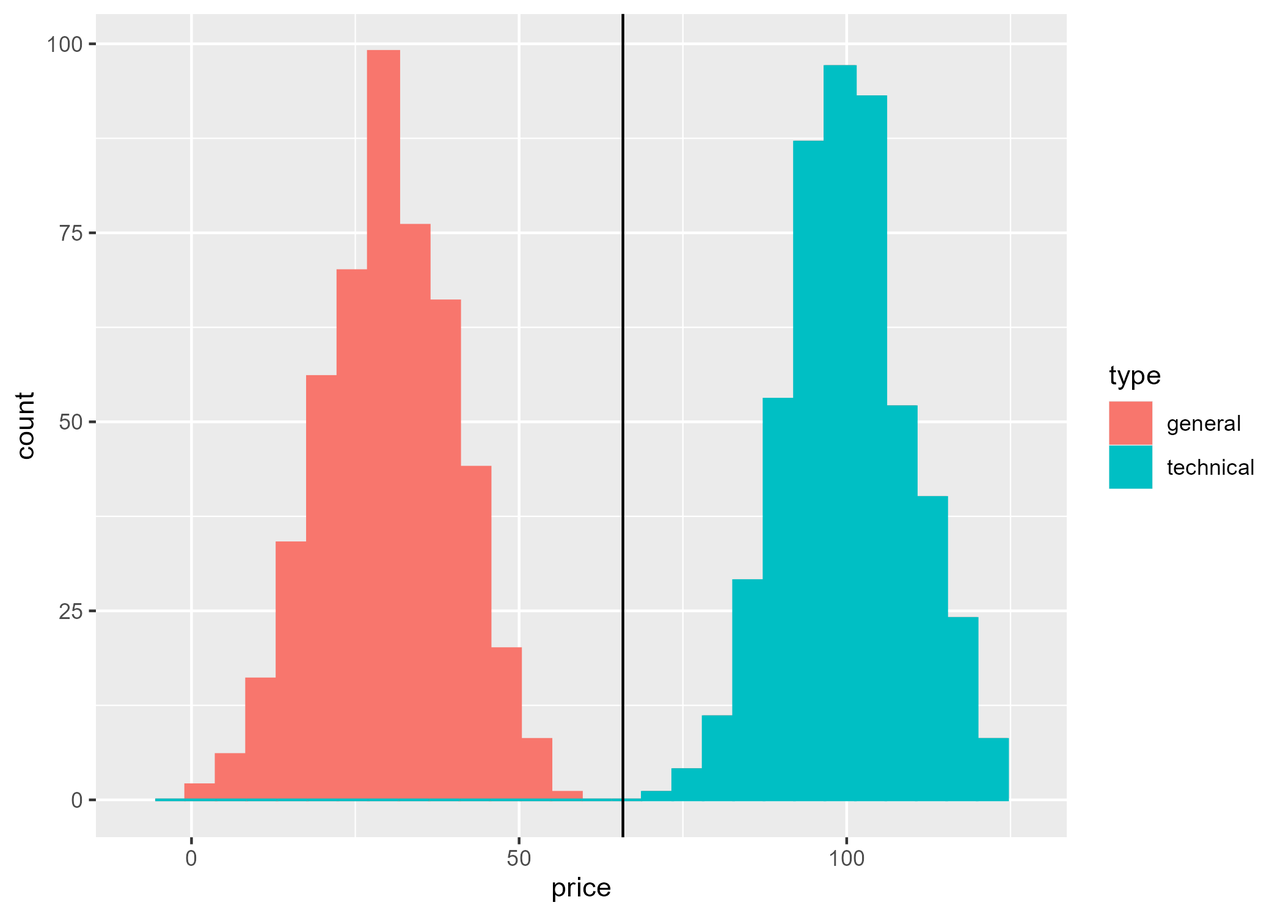
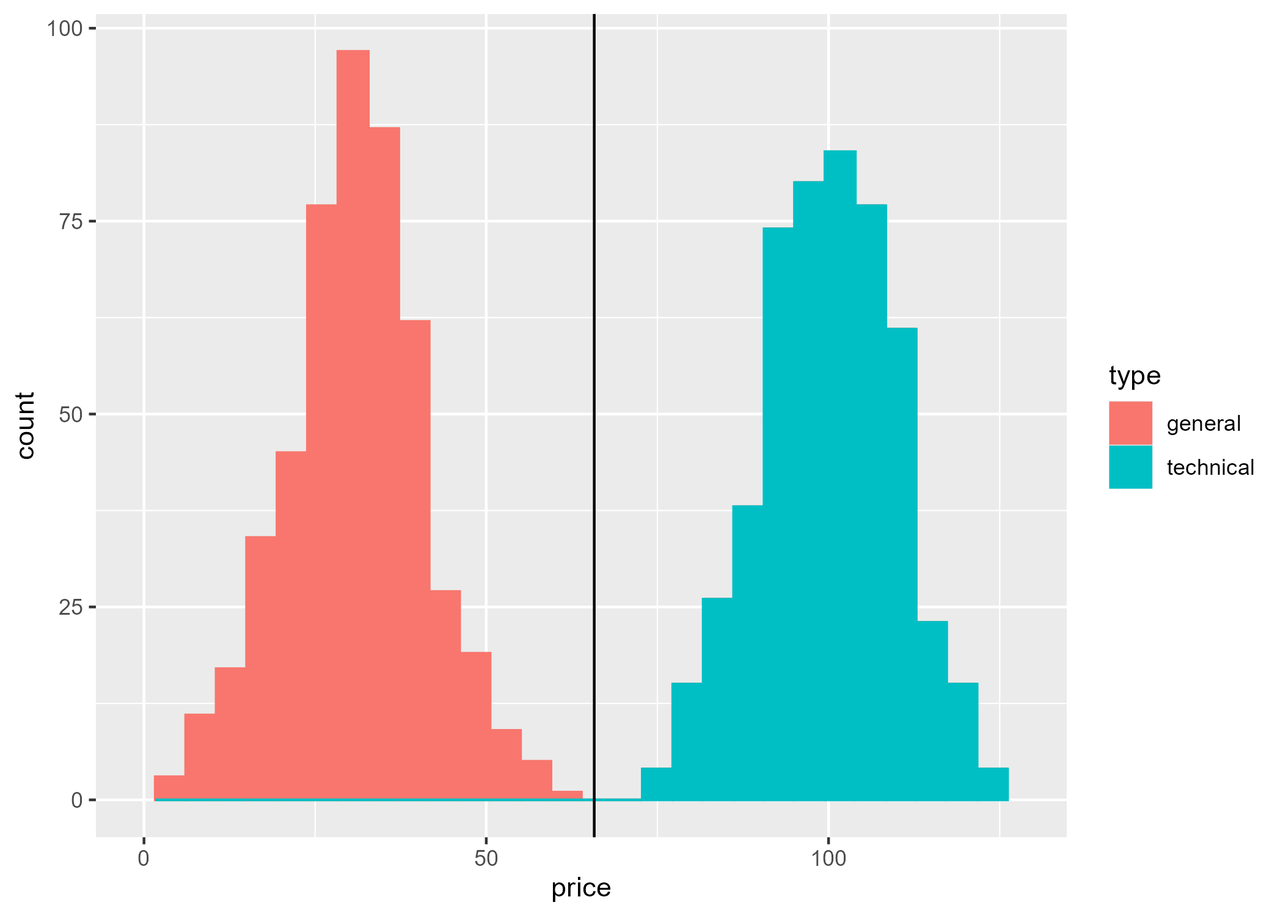
reduce-dim.qmd: Add code chunk `set-seed` to stabilize simulated data.

diff --git a/_book/reduce-dim.html b/_book/reduce-dim.html
@@ -464,7 +464,7 @@ window.Quarto = {
     <div>
     <div class="quarto-title-meta-heading">Published</div>
     <div class="quarto-title-meta-contents">
-      <p class="date">12:08 Fri 28-Nov-2025</p>
+      <p class="date">17:04 Sat 29-Nov-2025</p>
     </div>
   </div>
   
@@ -664,8 +664,8 @@ Figure&nbsp;7.1: Violent Crime Rates per US State (1973)
 <div id="fig-arrests-3d-scatter" class="cell-output-display quarto-float quarto-figure quarto-figure-center anchored">
 <figure class="quarto-float quarto-float-fig figure">
 <div aria-describedby="fig-arrests-3d-scatter-caption-0ceaefa1-69ba-4598-a22c-09a6ac19f8ca">
-<div class="plotly html-widget html-fill-item" id="htmlwidget-5b4afda456d76c3cbe17" style="width:100%;height:464px;"></div>
-<script type="application/json" data-for="htmlwidget-5b4afda456d76c3cbe17">{"x":{"visdat":{"1ae02c913912":["function () ","plotlyVisDat"]},"cur_data":"1ae02c913912","attrs":{"1ae02c913912":{"x":{},"y":{},"z":{},"mode":"markers","text":{},"marker":{"size":5,"color":{},"colorscale":"Viridis","showscale":true,"colorbar":{"title":"UrbanPop"}},"alpha_stroke":1,"sizes":[10,100],"spans":[1,20],"type":"scatter3d"}},"layout":{"margin":{"b":40,"l":60,"t":25,"r":10},"scene":{"xaxis":{"title":"Assault"},"yaxis":{"title":"Rape"},"zaxis":{"title":"Murder"}},"title":"Violent Crime Rates in each US State (1973)","hovermode":"closest","showlegend":false},"source":"A","config":{"modeBarButtonsToAdd":["hoverclosest","hovercompare"],"showSendToCloud":false},"data":[{"x":[236,263,294,190,276,204,110,238,335,211,46,120,249,113,56,115,109,249,83,300,149,255,72,259,178,109,102,252,57,159,285,254,337,45,120,151,159,106,174,279,86,188,201,120,48,156,145,81,53,161],"y":[21.199999999999999,44.5,31,19.5,40.600000000000001,38.700000000000003,11.1,15.800000000000001,31.899999999999999,25.800000000000001,20.199999999999999,14.199999999999999,24,21,11.300000000000001,18,16.300000000000001,22.199999999999999,7.7999999999999998,27.800000000000001,16.300000000000001,35.100000000000001,14.9,17.100000000000001,28.199999999999999,16.399999999999999,16.5,46,9.5,18.800000000000001,32.100000000000001,26.100000000000001,16.100000000000001,7.2999999999999998,21.399999999999999,20,29.300000000000001,14.9,8.3000000000000007,22.5,12.800000000000001,26.899999999999999,25.5,22.899999999999999,11.199999999999999,20.699999999999999,26.199999999999999,9.3000000000000007,10.800000000000001,15.6],"z":[13.199999999999999,10,8.0999999999999996,8.8000000000000007,9,7.9000000000000004,3.2999999999999998,5.9000000000000004,15.4,17.399999999999999,5.2999999999999998,2.6000000000000001,10.4,7.2000000000000002,2.2000000000000002,6,9.6999999999999993,15.4,2.1000000000000001,11.300000000000001,4.4000000000000004,12.1,2.7000000000000002,16.100000000000001,9,6,4.2999999999999998,12.199999999999999,2.1000000000000001,7.4000000000000004,11.4,11.1,13,0.80000000000000004,7.2999999999999998,6.5999999999999996,4.9000000000000004,6.2999999999999998,3.3999999999999999,14.4,3.7999999999999998,13.199999999999999,12.699999999999999,3.2000000000000002,2.2000000000000002,8.5,4,5.7000000000000002,2.6000000000000001,6.7999999999999998],"mode":"markers","text":["AL","AK","AZ","AR","CA","CO","CT","DE","FL","GA","HI","ID","IL","IN","IA","KS","KY","LA","ME","MD","MA","MI","MN","MS","MO","MT","NE","NV","NH","NJ","NM","NY","NC","ND","OH","OK","OR","PA","RI","SC","SD","TN","TX","UT","VT","VA","WA","WV","WI","WY"],"marker":{"color":[58,48,80,50,91,78.5,77,72,80.5,60,83,54,83,65,57,66,52,66,51,76.599999999999994,85,74,66,44.5,70,53,61.5,81,56,89,70,86,45,44,75,68,67,71.5,87,48,45,59,80,80,32,63,73,39,66,60.5],"size":5,"colorscale":"Viridis","showscale":true,"colorbar":{"title":"UrbanPop"},"line":{"color":"rgba(31,119,180,1)"}},"type":"scatter3d","error_y":{"color":"rgba(31,119,180,1)"},"error_x":{"color":"rgba(31,119,180,1)"},"line":{"color":"rgba(31,119,180,1)"},"frame":null}],"highlight":{"on":"plotly_click","persistent":false,"dynamic":false,"selectize":false,"opacityDim":0.20000000000000001,"selected":{"opacity":1},"debounce":0},"shinyEvents":["plotly_hover","plotly_click","plotly_selected","plotly_relayout","plotly_brushed","plotly_brushing","plotly_clickannotation","plotly_doubleclick","plotly_deselect","plotly_afterplot","plotly_sunburstclick"],"base_url":"https://plot.ly"},"evals":[],"jsHooks":[]}</script>
+<div class="plotly html-widget html-fill-item" id="htmlwidget-b52e173102e76c2328b3" style="width:100%;height:464px;"></div>
+<script type="application/json" data-for="htmlwidget-b52e173102e76c2328b3">{"x":{"visdat":{"79e8571a151d":["function () ","plotlyVisDat"]},"cur_data":"79e8571a151d","attrs":{"79e8571a151d":{"x":{},"y":{},"z":{},"mode":"markers","text":{},"marker":{"size":5,"color":{},"colorscale":"Viridis","showscale":true,"colorbar":{"title":"UrbanPop"}},"alpha_stroke":1,"sizes":[10,100],"spans":[1,20],"type":"scatter3d"}},"layout":{"margin":{"b":40,"l":60,"t":25,"r":10},"scene":{"xaxis":{"title":"Assault"},"yaxis":{"title":"Rape"},"zaxis":{"title":"Murder"}},"title":"Violent Crime Rates in each US State (1973)","hovermode":"closest","showlegend":false},"source":"A","config":{"modeBarButtonsToAdd":["hoverclosest","hovercompare"],"showSendToCloud":false},"data":[{"x":[236,263,294,190,276,204,110,238,335,211,46,120,249,113,56,115,109,249,83,300,149,255,72,259,178,109,102,252,57,159,285,254,337,45,120,151,159,106,174,279,86,188,201,120,48,156,145,81,53,161],"y":[21.199999999999999,44.5,31,19.5,40.600000000000001,38.700000000000003,11.1,15.800000000000001,31.899999999999999,25.800000000000001,20.199999999999999,14.199999999999999,24,21,11.300000000000001,18,16.300000000000001,22.199999999999999,7.7999999999999998,27.800000000000001,16.300000000000001,35.100000000000001,14.9,17.100000000000001,28.199999999999999,16.399999999999999,16.5,46,9.5,18.800000000000001,32.100000000000001,26.100000000000001,16.100000000000001,7.2999999999999998,21.399999999999999,20,29.300000000000001,14.9,8.3000000000000007,22.5,12.800000000000001,26.899999999999999,25.5,22.899999999999999,11.199999999999999,20.699999999999999,26.199999999999999,9.3000000000000007,10.800000000000001,15.6],"z":[13.199999999999999,10,8.0999999999999996,8.8000000000000007,9,7.9000000000000004,3.2999999999999998,5.9000000000000004,15.4,17.399999999999999,5.2999999999999998,2.6000000000000001,10.4,7.2000000000000002,2.2000000000000002,6,9.6999999999999993,15.4,2.1000000000000001,11.300000000000001,4.4000000000000004,12.1,2.7000000000000002,16.100000000000001,9,6,4.2999999999999998,12.199999999999999,2.1000000000000001,7.4000000000000004,11.4,11.1,13,0.80000000000000004,7.2999999999999998,6.5999999999999996,4.9000000000000004,6.2999999999999998,3.3999999999999999,14.4,3.7999999999999998,13.199999999999999,12.699999999999999,3.2000000000000002,2.2000000000000002,8.5,4,5.7000000000000002,2.6000000000000001,6.7999999999999998],"mode":"markers","text":["AL","AK","AZ","AR","CA","CO","CT","DE","FL","GA","HI","ID","IL","IN","IA","KS","KY","LA","ME","MD","MA","MI","MN","MS","MO","MT","NE","NV","NH","NJ","NM","NY","NC","ND","OH","OK","OR","PA","RI","SC","SD","TN","TX","UT","VT","VA","WA","WV","WI","WY"],"marker":{"color":[58,48,80,50,91,78.5,77,72,80.5,60,83,54,83,65,57,66,52,66,51,76.599999999999994,85,74,66,44.5,70,53,61.5,81,56,89,70,86,45,44,75,68,67,71.5,87,48,45,59,80,80,32,63,73,39,66,60.5],"size":5,"colorscale":"Viridis","showscale":true,"colorbar":{"title":"UrbanPop"},"line":{"color":"rgba(31,119,180,1)"}},"type":"scatter3d","error_y":{"color":"rgba(31,119,180,1)"},"error_x":{"color":"rgba(31,119,180,1)"},"line":{"color":"rgba(31,119,180,1)"},"frame":null}],"highlight":{"on":"plotly_click","persistent":false,"dynamic":false,"selectize":false,"opacityDim":0.20000000000000001,"selected":{"opacity":1},"debounce":0},"shinyEvents":["plotly_hover","plotly_click","plotly_selected","plotly_relayout","plotly_brushed","plotly_brushing","plotly_clickannotation","plotly_doubleclick","plotly_deselect","plotly_afterplot","plotly_sunburstclick"],"base_url":"https://plot.ly"},"evals":[],"jsHooks":[]}</script>
 </div>
 <figcaption class="quarto-float-caption-bottom quarto-float-caption quarto-float-fig" id="fig-arrests-3d-scatter-caption-0ceaefa1-69ba-4598-a22c-09a6ac19f8ca">
 Figure&nbsp;7.2: Violent Crime Rates in each US State (1973)
@@ -976,8 +976,8 @@ Figure&nbsp;7.6: Principal Components: (father, son) centered heights
 <div id="fig-arm-pca" class="cell-output-display quarto-float quarto-figure quarto-figure-center anchored">
 <figure class="quarto-float quarto-float-fig figure">
 <div aria-describedby="fig-arm-pca-caption-0ceaefa1-69ba-4598-a22c-09a6ac19f8ca">
-<div class="plotly html-widget html-fill-item" id="htmlwidget-4173dec2d1fe07d75551" style="width:100%;height:464px;"></div>
-<script type="application/json" data-for="htmlwidget-4173dec2d1fe07d75551">{"x":{"visdat":{"1ae076987b63":["function () ","plotlyVisDat"]},"cur_data":"1ae076987b63","attrs":{"1ae076987b63":{"x":[0.78283934708991831,1.106822522617628,1.4788032056309246,0.23086801100567186,1.2628144219457846,0.39885928720522512,-0.72908213870606098,0.80683810083271157,1.9707776573581877,0.48285492530500174,-1.4970422584754473,-0.60908836999209437,0.93883124641807492,-0.69308400809187098,-1.3770484897614808,-0.66908525434907773,-0.74108151557745772,0.93883124641807492,-1.0530653142337709,1.5507994668593046,-0.26110644072159123,1.0108275076464548,-1.185058459819134,1.0588250151320415,0.086875488548911931,-0.74108151557745772,-0.82507715367723433,0.9748293770322648,-1.3650491128900841,-0.14111267200762462,1.3708088137883547,0.99882813077505817,1.9947764111009809,-1.5090416353468439,-0.60908836999209437,-0.23710768697879792,-0.14111267200762462,-0.7770796461916476,0.038877981063325288,1.2988125525599747,-1.0170671836195808,0.20686925726287855,0.36286115659103513,-0.60908836999209437,-1.473043504732654,-0.17711080262181461,-0.3091039482071779,-1.0770640679765642,-1.4130466203756706,-0.11711391826483131],"y":[-0.0034164730151624227,2.4842029411499742,1.0428783878783285,-0.18491660194566589,2.0678202924270548,1.8649672071517862,-1.0817407684258011,-0.57994629432382061,1.1389666914297716,0.48770152291443553,-0.11018125473898803,-0.75076994508194173,0.29552491581154938,-0.024769429359927469,-1.0603878120810357,-0.3450637745314043,-0.52656390346190773,0.10334830870866318,-1.4340645481144254,0.70123108636208675,-0.52656390346190773,1.4806139929460138,-0.67603459787526365,-0.44115207808284718,0.74393699905161681,-0.51588742528952547,-0.50521094711714276,2.6443501137357126,-1.252564419183922,-0.25965194915234374,1.160319647774537,0.51973095743158326,-0.54791685980667282,-1.4874469389763383,0.017936483329602623,-0.13153421108375307,0.86137825894782516,-0.67603459787526365,-1.3806821572525125,0.13537774322581095,-0.90024063949529742,0.60514278281064349,0.45567208839728779,0.17808365591534103,-1.0710642902534184,-0.05679886387707523,0.53040743560396564,-1.273917375528687,-1.1137702029429486,-0.60129925066858581],"z":[1.2425640838811227,0.50786248217757646,0.071633406166095634,0.23234938153874665,0.27826823164521813,0.025714556059624149,-1.0304189963892241,-0.43347394500509234,1.747671435052311,2.2068599361170271,-0.57123049532450743,-1.1911349717618749,0.59970018239051981,-0.13500141931302667,-1.282972671974818,-0.41051451995185662,0.43898420701786878,1.747671435052311,-1.3059320970280539,0.8063350078696423,-0.7778653208036298,0.99001040829552867,-1.1681755467086388,1.9083874104249621,0.27826823164521813,-0.41051451995185662,-0.80082474585686569,1.0129698333487644,-1.3059320970280539,-0.089082569206554982,0.82929443292287808,0.7604161577631704,1.1966452337746512,-1.6044046227201196,-0.11204199425979093,-0.27275796963244175,-0.66306819553745067,-0.34163624479214921,-1.007459571335988,1.5180771845199528,-0.91562187112304483,1.2425640838811227,1.1277669586149435,-1.0533784214424597,-1.282972671974818,0.16347110637903903,-0.86970302101657315,-0.47939279511156407,-1.1911349717618749,-0.22683911952597005],"mode":"markers","text":["AL","AK","AZ","AR","CA","CO","CT","DE","FL","GA","HI","ID","IL","IN","IA","KS","KY","LA","ME","MD","MA","MI","MN","MS","MO","MT","NE","NV","NH","NJ","NM","NY","NC","ND","OH","OK","OR","PA","RI","SC","SD","TN","TX","UT","VT","VA","WA","WV","WI","WY"],"marker":{"size":4,"color":"steelblue","opacity":0.69999999999999996},"name":"State","alpha_stroke":1,"sizes":[10,100],"spans":[1,20],"type":"scatter3d"},"1ae076987b63.1":{"x":[0,1.5489298635318458],"y":[0,1.3741651111024438],"z":[0,1.4842670890217005],"type":"scatter3d","mode":"lines","line":{"width":6,"color":"darkorange"},"name":"PC1","showlegend":false,"inherit":false},"1ae076987b63.2":{"x":[0,-0.29354746751601463],"y":[0,1.1219106831632701],"z":[0,-0.73235207316550643],"type":"scatter3d","mode":"lines","line":{"width":6,"color":"purple"},"name":"PC2","showlegend":false,"inherit":false},"1ae076987b63.3":{"x":[0,0.68703516343273274],"y":[0,-0.17966971158361228],"z":[0,-0.55062423656922754],"type":"scatter3d","mode":"lines","line":{"width":6,"color":"darkgreen"},"name":"PC3","showlegend":false,"inherit":false}},"layout":{"margin":{"b":40,"l":60,"t":25,"r":10},"scene":{"xaxis":{"title":"z_Assault"},"yaxis":{"title":"z_Rape"},"zaxis":{"title":"z_Murder"},"aspectmode":"cube"},"title":"US Arrest Z-scores: Principal Components","hovermode":"closest","showlegend":false},"source":"A","config":{"modeBarButtonsToAdd":["hoverclosest","hovercompare"],"showSendToCloud":false},"data":[{"x":[0.78283934708991831,1.106822522617628,1.4788032056309246,0.23086801100567186,1.2628144219457846,0.39885928720522512,-0.72908213870606098,0.80683810083271157,1.9707776573581877,0.48285492530500174,-1.4970422584754473,-0.60908836999209437,0.93883124641807492,-0.69308400809187098,-1.3770484897614808,-0.66908525434907773,-0.74108151557745772,0.93883124641807492,-1.0530653142337709,1.5507994668593046,-0.26110644072159123,1.0108275076464548,-1.185058459819134,1.0588250151320415,0.086875488548911931,-0.74108151557745772,-0.82507715367723433,0.9748293770322648,-1.3650491128900841,-0.14111267200762462,1.3708088137883547,0.99882813077505817,1.9947764111009809,-1.5090416353468439,-0.60908836999209437,-0.23710768697879792,-0.14111267200762462,-0.7770796461916476,0.038877981063325288,1.2988125525599747,-1.0170671836195808,0.20686925726287855,0.36286115659103513,-0.60908836999209437,-1.473043504732654,-0.17711080262181461,-0.3091039482071779,-1.0770640679765642,-1.4130466203756706,-0.11711391826483131],"y":[-0.0034164730151624227,2.4842029411499742,1.0428783878783285,-0.18491660194566589,2.0678202924270548,1.8649672071517862,-1.0817407684258011,-0.57994629432382061,1.1389666914297716,0.48770152291443553,-0.11018125473898803,-0.75076994508194173,0.29552491581154938,-0.024769429359927469,-1.0603878120810357,-0.3450637745314043,-0.52656390346190773,0.10334830870866318,-1.4340645481144254,0.70123108636208675,-0.52656390346190773,1.4806139929460138,-0.67603459787526365,-0.44115207808284718,0.74393699905161681,-0.51588742528952547,-0.50521094711714276,2.6443501137357126,-1.252564419183922,-0.25965194915234374,1.160319647774537,0.51973095743158326,-0.54791685980667282,-1.4874469389763383,0.017936483329602623,-0.13153421108375307,0.86137825894782516,-0.67603459787526365,-1.3806821572525125,0.13537774322581095,-0.90024063949529742,0.60514278281064349,0.45567208839728779,0.17808365591534103,-1.0710642902534184,-0.05679886387707523,0.53040743560396564,-1.273917375528687,-1.1137702029429486,-0.60129925066858581],"z":[1.2425640838811227,0.50786248217757646,0.071633406166095634,0.23234938153874665,0.27826823164521813,0.025714556059624149,-1.0304189963892241,-0.43347394500509234,1.747671435052311,2.2068599361170271,-0.57123049532450743,-1.1911349717618749,0.59970018239051981,-0.13500141931302667,-1.282972671974818,-0.41051451995185662,0.43898420701786878,1.747671435052311,-1.3059320970280539,0.8063350078696423,-0.7778653208036298,0.99001040829552867,-1.1681755467086388,1.9083874104249621,0.27826823164521813,-0.41051451995185662,-0.80082474585686569,1.0129698333487644,-1.3059320970280539,-0.089082569206554982,0.82929443292287808,0.7604161577631704,1.1966452337746512,-1.6044046227201196,-0.11204199425979093,-0.27275796963244175,-0.66306819553745067,-0.34163624479214921,-1.007459571335988,1.5180771845199528,-0.91562187112304483,1.2425640838811227,1.1277669586149435,-1.0533784214424597,-1.282972671974818,0.16347110637903903,-0.86970302101657315,-0.47939279511156407,-1.1911349717618749,-0.22683911952597005],"mode":"markers","text":["AL","AK","AZ","AR","CA","CO","CT","DE","FL","GA","HI","ID","IL","IN","IA","KS","KY","LA","ME","MD","MA","MI","MN","MS","MO","MT","NE","NV","NH","NJ","NM","NY","NC","ND","OH","OK","OR","PA","RI","SC","SD","TN","TX","UT","VT","VA","WA","WV","WI","WY"],"marker":{"color":"steelblue","size":4,"opacity":0.69999999999999996,"line":{"color":"rgba(31,119,180,1)"}},"name":"State","type":"scatter3d","error_y":{"color":"rgba(31,119,180,1)"},"error_x":{"color":"rgba(31,119,180,1)"},"line":{"color":"rgba(31,119,180,1)"},"frame":null},{"x":[0,1.5489298635318458],"y":[0,1.3741651111024438],"z":[0,1.4842670890217005],"type":"scatter3d","mode":"lines","line":{"color":"darkorange","width":6},"name":"PC1","showlegend":false,"marker":{"color":"rgba(255,127,14,1)","line":{"color":"rgba(255,127,14,1)"}},"error_y":{"color":"rgba(255,127,14,1)"},"error_x":{"color":"rgba(255,127,14,1)"},"frame":null},{"x":[0,-0.29354746751601463],"y":[0,1.1219106831632701],"z":[0,-0.73235207316550643],"type":"scatter3d","mode":"lines","line":{"color":"purple","width":6},"name":"PC2","showlegend":false,"marker":{"color":"rgba(44,160,44,1)","line":{"color":"rgba(44,160,44,1)"}},"error_y":{"color":"rgba(44,160,44,1)"},"error_x":{"color":"rgba(44,160,44,1)"},"frame":null},{"x":[0,0.68703516343273274],"y":[0,-0.17966971158361228],"z":[0,-0.55062423656922754],"type":"scatter3d","mode":"lines","line":{"color":"darkgreen","width":6},"name":"PC3","showlegend":false,"marker":{"color":"rgba(214,39,40,1)","line":{"color":"rgba(214,39,40,1)"}},"error_y":{"color":"rgba(214,39,40,1)"},"error_x":{"color":"rgba(214,39,40,1)"},"frame":null}],"highlight":{"on":"plotly_click","persistent":false,"dynamic":false,"selectize":false,"opacityDim":0.20000000000000001,"selected":{"opacity":1},"debounce":0},"shinyEvents":["plotly_hover","plotly_click","plotly_selected","plotly_relayout","plotly_brushed","plotly_brushing","plotly_clickannotation","plotly_doubleclick","plotly_deselect","plotly_afterplot","plotly_sunburstclick"],"base_url":"https://plot.ly"},"evals":[],"jsHooks":[]}</script>
+<div class="plotly html-widget html-fill-item" id="htmlwidget-a3c47e91dedbd210e3a2" style="width:100%;height:464px;"></div>
+<script type="application/json" data-for="htmlwidget-a3c47e91dedbd210e3a2">{"x":{"visdat":{"79e811991950":["function () ","plotlyVisDat"]},"cur_data":"79e811991950","attrs":{"79e811991950":{"x":[0.78283934708991831,1.106822522617628,1.4788032056309246,0.23086801100567186,1.2628144219457846,0.39885928720522512,-0.72908213870606098,0.80683810083271157,1.9707776573581877,0.48285492530500174,-1.4970422584754473,-0.60908836999209437,0.93883124641807492,-0.69308400809187098,-1.3770484897614808,-0.66908525434907773,-0.74108151557745772,0.93883124641807492,-1.0530653142337709,1.5507994668593046,-0.26110644072159123,1.0108275076464548,-1.185058459819134,1.0588250151320415,0.086875488548911931,-0.74108151557745772,-0.82507715367723433,0.9748293770322648,-1.3650491128900841,-0.14111267200762462,1.3708088137883547,0.99882813077505817,1.9947764111009809,-1.5090416353468439,-0.60908836999209437,-0.23710768697879792,-0.14111267200762462,-0.7770796461916476,0.038877981063325288,1.2988125525599747,-1.0170671836195808,0.20686925726287855,0.36286115659103513,-0.60908836999209437,-1.473043504732654,-0.17711080262181461,-0.3091039482071779,-1.0770640679765642,-1.4130466203756706,-0.11711391826483131],"y":[-0.0034164730151624227,2.4842029411499742,1.0428783878783285,-0.18491660194566589,2.0678202924270548,1.8649672071517862,-1.0817407684258011,-0.57994629432382061,1.1389666914297716,0.48770152291443553,-0.11018125473898803,-0.75076994508194173,0.29552491581154938,-0.024769429359927469,-1.0603878120810357,-0.3450637745314043,-0.52656390346190773,0.10334830870866318,-1.4340645481144254,0.70123108636208675,-0.52656390346190773,1.4806139929460138,-0.67603459787526365,-0.44115207808284718,0.74393699905161681,-0.51588742528952547,-0.50521094711714276,2.6443501137357126,-1.252564419183922,-0.25965194915234374,1.160319647774537,0.51973095743158326,-0.54791685980667282,-1.4874469389763383,0.017936483329602623,-0.13153421108375307,0.86137825894782516,-0.67603459787526365,-1.3806821572525125,0.13537774322581095,-0.90024063949529742,0.60514278281064349,0.45567208839728779,0.17808365591534103,-1.0710642902534184,-0.05679886387707523,0.53040743560396564,-1.273917375528687,-1.1137702029429486,-0.60129925066858581],"z":[1.2425640838811227,0.50786248217757646,0.071633406166095634,0.23234938153874665,0.27826823164521813,0.025714556059624149,-1.0304189963892241,-0.43347394500509234,1.747671435052311,2.2068599361170271,-0.57123049532450743,-1.1911349717618749,0.59970018239051981,-0.13500141931302667,-1.282972671974818,-0.41051451995185662,0.43898420701786878,1.747671435052311,-1.3059320970280539,0.8063350078696423,-0.7778653208036298,0.99001040829552867,-1.1681755467086388,1.9083874104249621,0.27826823164521813,-0.41051451995185662,-0.80082474585686569,1.0129698333487644,-1.3059320970280539,-0.089082569206554982,0.82929443292287808,0.7604161577631704,1.1966452337746512,-1.6044046227201196,-0.11204199425979093,-0.27275796963244175,-0.66306819553745067,-0.34163624479214921,-1.007459571335988,1.5180771845199528,-0.91562187112304483,1.2425640838811227,1.1277669586149435,-1.0533784214424597,-1.282972671974818,0.16347110637903903,-0.86970302101657315,-0.47939279511156407,-1.1911349717618749,-0.22683911952597005],"mode":"markers","text":["AL","AK","AZ","AR","CA","CO","CT","DE","FL","GA","HI","ID","IL","IN","IA","KS","KY","LA","ME","MD","MA","MI","MN","MS","MO","MT","NE","NV","NH","NJ","NM","NY","NC","ND","OH","OK","OR","PA","RI","SC","SD","TN","TX","UT","VT","VA","WA","WV","WI","WY"],"marker":{"size":4,"color":"steelblue","opacity":0.69999999999999996},"name":"State","alpha_stroke":1,"sizes":[10,100],"spans":[1,20],"type":"scatter3d"},"79e811991950.1":{"x":[0,1.5489298635318458],"y":[0,1.3741651111024438],"z":[0,1.4842670890217005],"type":"scatter3d","mode":"lines","line":{"width":6,"color":"darkorange"},"name":"PC1","showlegend":false,"inherit":false},"79e811991950.2":{"x":[0,-0.29354746751601463],"y":[0,1.1219106831632701],"z":[0,-0.73235207316550643],"type":"scatter3d","mode":"lines","line":{"width":6,"color":"purple"},"name":"PC2","showlegend":false,"inherit":false},"79e811991950.3":{"x":[0,0.68703516343273274],"y":[0,-0.17966971158361228],"z":[0,-0.55062423656922754],"type":"scatter3d","mode":"lines","line":{"width":6,"color":"darkgreen"},"name":"PC3","showlegend":false,"inherit":false}},"layout":{"margin":{"b":40,"l":60,"t":25,"r":10},"scene":{"xaxis":{"title":"z_Assault"},"yaxis":{"title":"z_Rape"},"zaxis":{"title":"z_Murder"},"aspectmode":"cube"},"title":"US Arrest Z-scores: Principal Components","hovermode":"closest","showlegend":false},"source":"A","config":{"modeBarButtonsToAdd":["hoverclosest","hovercompare"],"showSendToCloud":false},"data":[{"x":[0.78283934708991831,1.106822522617628,1.4788032056309246,0.23086801100567186,1.2628144219457846,0.39885928720522512,-0.72908213870606098,0.80683810083271157,1.9707776573581877,0.48285492530500174,-1.4970422584754473,-0.60908836999209437,0.93883124641807492,-0.69308400809187098,-1.3770484897614808,-0.66908525434907773,-0.74108151557745772,0.93883124641807492,-1.0530653142337709,1.5507994668593046,-0.26110644072159123,1.0108275076464548,-1.185058459819134,1.0588250151320415,0.086875488548911931,-0.74108151557745772,-0.82507715367723433,0.9748293770322648,-1.3650491128900841,-0.14111267200762462,1.3708088137883547,0.99882813077505817,1.9947764111009809,-1.5090416353468439,-0.60908836999209437,-0.23710768697879792,-0.14111267200762462,-0.7770796461916476,0.038877981063325288,1.2988125525599747,-1.0170671836195808,0.20686925726287855,0.36286115659103513,-0.60908836999209437,-1.473043504732654,-0.17711080262181461,-0.3091039482071779,-1.0770640679765642,-1.4130466203756706,-0.11711391826483131],"y":[-0.0034164730151624227,2.4842029411499742,1.0428783878783285,-0.18491660194566589,2.0678202924270548,1.8649672071517862,-1.0817407684258011,-0.57994629432382061,1.1389666914297716,0.48770152291443553,-0.11018125473898803,-0.75076994508194173,0.29552491581154938,-0.024769429359927469,-1.0603878120810357,-0.3450637745314043,-0.52656390346190773,0.10334830870866318,-1.4340645481144254,0.70123108636208675,-0.52656390346190773,1.4806139929460138,-0.67603459787526365,-0.44115207808284718,0.74393699905161681,-0.51588742528952547,-0.50521094711714276,2.6443501137357126,-1.252564419183922,-0.25965194915234374,1.160319647774537,0.51973095743158326,-0.54791685980667282,-1.4874469389763383,0.017936483329602623,-0.13153421108375307,0.86137825894782516,-0.67603459787526365,-1.3806821572525125,0.13537774322581095,-0.90024063949529742,0.60514278281064349,0.45567208839728779,0.17808365591534103,-1.0710642902534184,-0.05679886387707523,0.53040743560396564,-1.273917375528687,-1.1137702029429486,-0.60129925066858581],"z":[1.2425640838811227,0.50786248217757646,0.071633406166095634,0.23234938153874665,0.27826823164521813,0.025714556059624149,-1.0304189963892241,-0.43347394500509234,1.747671435052311,2.2068599361170271,-0.57123049532450743,-1.1911349717618749,0.59970018239051981,-0.13500141931302667,-1.282972671974818,-0.41051451995185662,0.43898420701786878,1.747671435052311,-1.3059320970280539,0.8063350078696423,-0.7778653208036298,0.99001040829552867,-1.1681755467086388,1.9083874104249621,0.27826823164521813,-0.41051451995185662,-0.80082474585686569,1.0129698333487644,-1.3059320970280539,-0.089082569206554982,0.82929443292287808,0.7604161577631704,1.1966452337746512,-1.6044046227201196,-0.11204199425979093,-0.27275796963244175,-0.66306819553745067,-0.34163624479214921,-1.007459571335988,1.5180771845199528,-0.91562187112304483,1.2425640838811227,1.1277669586149435,-1.0533784214424597,-1.282972671974818,0.16347110637903903,-0.86970302101657315,-0.47939279511156407,-1.1911349717618749,-0.22683911952597005],"mode":"markers","text":["AL","AK","AZ","AR","CA","CO","CT","DE","FL","GA","HI","ID","IL","IN","IA","KS","KY","LA","ME","MD","MA","MI","MN","MS","MO","MT","NE","NV","NH","NJ","NM","NY","NC","ND","OH","OK","OR","PA","RI","SC","SD","TN","TX","UT","VT","VA","WA","WV","WI","WY"],"marker":{"color":"steelblue","size":4,"opacity":0.69999999999999996,"line":{"color":"rgba(31,119,180,1)"}},"name":"State","type":"scatter3d","error_y":{"color":"rgba(31,119,180,1)"},"error_x":{"color":"rgba(31,119,180,1)"},"line":{"color":"rgba(31,119,180,1)"},"frame":null},{"x":[0,1.5489298635318458],"y":[0,1.3741651111024438],"z":[0,1.4842670890217005],"type":"scatter3d","mode":"lines","line":{"color":"darkorange","width":6},"name":"PC1","showlegend":false,"marker":{"color":"rgba(255,127,14,1)","line":{"color":"rgba(255,127,14,1)"}},"error_y":{"color":"rgba(255,127,14,1)"},"error_x":{"color":"rgba(255,127,14,1)"},"frame":null},{"x":[0,-0.29354746751601463],"y":[0,1.1219106831632701],"z":[0,-0.73235207316550643],"type":"scatter3d","mode":"lines","line":{"color":"purple","width":6},"name":"PC2","showlegend":false,"marker":{"color":"rgba(44,160,44,1)","line":{"color":"rgba(44,160,44,1)"}},"error_y":{"color":"rgba(44,160,44,1)"},"error_x":{"color":"rgba(44,160,44,1)"},"frame":null},{"x":[0,0.68703516343273274],"y":[0,-0.17966971158361228],"z":[0,-0.55062423656922754],"type":"scatter3d","mode":"lines","line":{"color":"darkgreen","width":6},"name":"PC3","showlegend":false,"marker":{"color":"rgba(214,39,40,1)","line":{"color":"rgba(214,39,40,1)"}},"error_y":{"color":"rgba(214,39,40,1)"},"error_x":{"color":"rgba(214,39,40,1)"},"frame":null}],"highlight":{"on":"plotly_click","persistent":false,"dynamic":false,"selectize":false,"opacityDim":0.20000000000000001,"selected":{"opacity":1},"debounce":0},"shinyEvents":["plotly_hover","plotly_click","plotly_selected","plotly_relayout","plotly_brushed","plotly_brushing","plotly_clickannotation","plotly_doubleclick","plotly_deselect","plotly_afterplot","plotly_sunburstclick"],"base_url":"https://plot.ly"},"evals":[],"jsHooks":[]}</script>
 </div>
 <figcaption class="quarto-float-caption-bottom quarto-float-caption quarto-float-fig" id="fig-arm-pca-caption-0ceaefa1-69ba-4598-a22c-09a6ac19f8ca">
 Figure&nbsp;7.7: US Arrest Z-scores: Principal Components
@@ -3032,11 +3032,12 @@ X = \begin{pmatrix}
 <li><p>Examine the loadings (rotation matrix) for PC1 and PC2. Which original variables contribute most to each component? Propose an interpretation.</p></li>
 <li><p>Create a biplot: <a href="#fn17" class="footnote-ref" id="fnref17" role="doc-noteref"><sup>17</sup></a> Identify states that are outliers along PC1 or PC2 and explain what makes them unusual.</p></li>
 </ol>
-<p><strong>Exercise 7.3</strong> (LDA on wine data) Using the wine quality data with color (red vs.&nbsp;white) as the response:</p>
+<p><strong>Exercise 7.3</strong> (LDA on wine data) <a href="#fn18" class="footnote-ref" id="fnref18" role="doc-noteref"><sup>18</sup></a></p>
+<p>Using the wine quality data with color (red vs.&nbsp;white) as the response:</p>
 <ol type="a">
 <li><p>Fit an LDA model using <code>MASS::lda()</code> with predictors <code>density</code> and <code>alcohol</code>. Extract the scaling matrix and interpret the LD1 coefficients.</p></li>
 <li><p>Compute the projected LD1 scores for all observations. Create a histogram or density plot of LD1 scores, colored by wine color. How well does LD1 separate the two classes?</p></li>
-<li><p>Compare the LDA decision boundary to logistic regression. <a href="#fn18" class="footnote-ref" id="fnref18" role="doc-noteref"><sup>18</sup></a> Fit a logistic regression model with the same predictors and plot both decision boundaries on a scatter plot of the data.</p></li>
+<li><p>Compare the LDA decision boundary to logistic regression. <a href="#fn19" class="footnote-ref" id="fnref19" role="doc-noteref"><sup>19</sup></a> Fit a logistic regression model with the same predictors and plot both decision boundaries on a scatter plot of the data.</p></li>
 </ol>
 <p><strong>Exercise 7.4</strong> (LDA with <span class="math inline">\(K = 3\)</span>) Using the wine quality data, create a three-level quality variable (low, medium, high) as described in the chapter.</p>
 <ol type="a">
@@ -3168,8 +3169,8 @@ X = \begin{pmatrix}
 \qquad(7.54)\]</span></span></p>
 <p>Although matrix <span class="math inline">\(X_{\bullet, \bullet}^\top \; X_{\bullet, \bullet}\)</span> is a square matrix having dimensions <span class="math inline">\(d \times d\)</span>, its <em>rank</em> may be less than <span class="math inline">\(d\)</span>. Let <span class="math inline">\(r = rank \left ( X_{\bullet, \bullet} \right )\)</span>. Then <span class="math inline">\(r\)</span> is also the rank of <span class="math inline">\(X_{\bullet, \bullet}^\top \; X_{\bullet, \bullet}\)</span>. It is the dimension of the subspace of <span class="math inline">\(\mathbb{R}^d\)</span> spanned by the rows of <span class="math inline">\(X_{\bullet, \bullet}\)</span>, as well as the dimension of the subspace of <span class="math inline">\(\mathbb{R}^n\)</span> spanned by the columns of <span class="math inline">\(X_{\bullet, \bullet}\)</span>. Consequently <span class="math inline">\(r \le \min(n, d)\)</span>.</p>
 <p>Our construction of principal components also relies on the notion of an orthogonal projection <span class="math inline">\(P\)</span> from <span class="math inline">\(\mathbb{R}^d\)</span> to some subspace of <span class="math inline">\(\mathbb{R}^d\)</span>. Recall that <span class="math inline">\(P\)</span> is an orthogonal projection if and only if: it is idempotent <span class="math inline">\((P^2 = P)\)</span>; and symmetric <span class="math inline">\((P^\top = P)\)</span>. Also, if <span class="math inline">\(P\)</span> is an orthogonal projection then so is its complement <span class="math inline">\(\mathcal{I} - P\)</span>.</p>
-<p>The simplest example is the <span class="math inline">\(d \times d\)</span> matrix <span class="math inline">\(v_\bullet \; v_\bullet^\top\)</span>, where <span class="math inline">\(v_\bullet \in \mathbb{R}^d\)</span> is a unit vector (a vector of unit norm). This sends <span class="math inline">\(x_\bullet \in \mathbb{R}^d\)</span> to a scalar multiple of <span class="math inline">\(v_\bullet\)</span>, namely <span class="math inline">\(\left &lt; x_\bullet, v_\bullet \right &gt; v_\bullet\)</span>. <a href="#fn19" class="footnote-ref" id="fnref19" role="doc-noteref"><sup>19</sup></a></p>
-<p>To any projection <span class="math inline">\(P\)</span> defined on <span class="math inline">\(\mathbb{R}^d\)</span> we apply the following loss function <span class="math inline">\(\mathcal{L} (\cdot)\)</span> in order to measure how well <span class="math inline">\(P\)</span> reproduces the rows of the feature matrix <span class="math inline">\(X_{\bullet, \bullet}\)</span>. <a href="#fn20" class="footnote-ref" id="fnref20" role="doc-noteref"><sup>20</sup></a></p>
+<p>The simplest example is the <span class="math inline">\(d \times d\)</span> matrix <span class="math inline">\(v_\bullet \; v_\bullet^\top\)</span>, where <span class="math inline">\(v_\bullet \in \mathbb{R}^d\)</span> is a unit vector (a vector of unit norm). This sends <span class="math inline">\(x_\bullet \in \mathbb{R}^d\)</span> to a scalar multiple of <span class="math inline">\(v_\bullet\)</span>, namely <span class="math inline">\(\left &lt; x_\bullet, v_\bullet \right &gt; v_\bullet\)</span>. <a href="#fn20" class="footnote-ref" id="fnref20" role="doc-noteref"><sup>20</sup></a></p>
+<p>To any projection <span class="math inline">\(P\)</span> defined on <span class="math inline">\(\mathbb{R}^d\)</span> we apply the following loss function <span class="math inline">\(\mathcal{L} (\cdot)\)</span> in order to measure how well <span class="math inline">\(P\)</span> reproduces the rows of the feature matrix <span class="math inline">\(X_{\bullet, \bullet}\)</span>. <a href="#fn21" class="footnote-ref" id="fnref21" role="doc-noteref"><sup>21</sup></a></p>
 <p><span id="eq-row-projection-squared-error"><span class="math display">\[
 \begin{align}
   \mathcal{L} \left ( P \right )
@@ -3283,7 +3284,7 @@ X = \begin{pmatrix}
 \end{align}
 \qquad(7.57)\]</span></span></p>
 <p>In other words, <span class="math inline">\(P^{(j)}\)</span> is the sum of orthogonal projections, <span class="math inline">\(v_{\bullet, \eta} \; v_{\bullet, \eta}^\top\)</span>, to 1-dimensional subspaces that are pair-wise orthogonal.</p>
-<p>Since we will apply our loss function <span class="math inline">\(\mathcal{L} (P)\)</span> to <span class="math inline">\(P^{(j)}\)</span>, it will be useful to re-express the sum of squares appearing in <a href="#eq-min-loss-equals-max-quad-form" class="quarto-xref">Equation&nbsp;<span>7.56</span></a>. <a href="#fn21" class="footnote-ref" id="fnref21" role="doc-noteref"><sup>21</sup></a></p>
+<p>Since we will apply our loss function <span class="math inline">\(\mathcal{L} (P)\)</span> to <span class="math inline">\(P^{(j)}\)</span>, it will be useful to re-express the sum of squares appearing in <a href="#eq-min-loss-equals-max-quad-form" class="quarto-xref">Equation&nbsp;<span>7.56</span></a>. <a href="#fn22" class="footnote-ref" id="fnref22" role="doc-noteref"><sup>22</sup></a></p>
 <p><span id="eq-projection-quad-form-as-sum"><span class="math display">\[
 \begin{align}
   &amp;
@@ -3558,7 +3559,7 @@ X = \begin{pmatrix}
 </section>
 <section id="principal-components-of-the-feature-matrix" class="level4" data-number="7.8.4.2">
 <h4 data-number="7.8.4.2" class="anchored" data-anchor-id="principal-components-of-the-feature-matrix"><span class="header-section-number">7.8.4.2</span> Principal Components of the Feature Matrix</h4>
-<p>We now define <span class="math inline">\((c_{\bullet, 1}, \ldots, c_{\bullet, r})\)</span>, the <em>principal components</em> of <span class="math inline">\(X_{\bullet, \bullet}\)</span>, as the following respective linear combinations of the columns of <span class="math inline">\(X_{\bullet, \bullet}\)</span>.<a href="#fn22" class="footnote-ref" id="fnref22" role="doc-noteref"><sup>22</sup></a></p>
+<p>We now define <span class="math inline">\((c_{\bullet, 1}, \ldots, c_{\bullet, r})\)</span>, the <em>principal components</em> of <span class="math inline">\(X_{\bullet, \bullet}\)</span>, as the following respective linear combinations of the columns of <span class="math inline">\(X_{\bullet, \bullet}\)</span>.<a href="#fn23" class="footnote-ref" id="fnref23" role="doc-noteref"><sup>23</sup></a></p>
 <p><span id="eq-pc-defn-1"><span class="math display">\[
 \begin{align}
   c_{\bullet, \eta}
@@ -3780,11 +3781,12 @@ Ross, Douglas T, Uwe Scherf, Michael B Eisen, Charles M Perou, Christian Rees, P
 <li id="fn15"><p>Clustering is an important exploratory technique to enhance one’s understanding of the data by partitioning observations. Clustering and other methods designed to classify or partition observations that do not reduce data dimensions are omitted from <a href="#tbl-method-objectives-v0" class="quarto-xref">Table&nbsp;<span>7.15</span></a>.<a href="#fnref15" class="footnote-back" role="doc-backlink">↩</a></p></li>
 <li id="fn16"><p>A scree plot example analysis is given <a href="https://statistics.arabpsychology.com/create-a-scree-plot-in-r-step-by-step/">here</a>.<a href="#fnref16" class="footnote-back" role="doc-backlink">↩</a></p></li>
 <li id="fn17"><p>A biplot example analysis is given <a href="https://statistics.arabpsychology.com/create-a-biplot-in-r-to-visualize-pca-results/#google_vignette">here</a>.<a href="#fnref17" class="footnote-back" role="doc-backlink">↩</a></p></li>
-<li id="fn18"><p>The <code>R</code> function <code>stats::glm()</code> performs logistic regression with the parameter setting <code>family = binomial</code>. See for example <span class="citation" data-cites="r_doc_HSAUR">Hothorn and Everitt (<a href="references.html#ref-r_doc_HSAUR" role="doc-biblioref">2025</a>)</span>.<a href="#fnref18" class="footnote-back" role="doc-backlink">↩</a></p></li>
-<li id="fn19"><p>Among the notations for the inner product (scalar product) of vectors <span class="math inline">\(x, y\)</span> belonging to the same Euclidean space are: (1) <span class="math inline">\(\left &lt; x, y \right&gt;\)</span>; and (2) <span class="math inline">\(x^\top \; y\)</span>. The latter conforms to the notation of matrix multiplication if <span class="math inline">\(x\)</span> and <span class="math inline">\(y\)</span> are column vectors, and this is the tacit assumption without other information to the contrary. Ambiguity may occur when at least one of <span class="math inline">\(x, y\)</span> is a row or a column of some matrix. For example, if <span class="math inline">\(x\)</span> is a row vector and <span class="math inline">\(y\)</span> is a column vector, then the inner product of <span class="math inline">\(x, y\)</span> should be written either as <span class="math inline">\(\left &lt; x, y \right&gt;\)</span> or else as <span class="math inline">\(x \; y\)</span> according to matrix notation.<a href="#fnref19" class="footnote-back" role="doc-backlink">↩</a></p></li>
-<li id="fn20"><p>We use the property of orthogonal projection <span class="math inline">\(P\)</span> that: <span class="math inline">\(\left &lt; x, P \; x \right &gt; = \left &lt; x, P^2 \; x \right &gt; = \left &lt; P \; x, P \; x \right &gt; = \lVert P \; x \rVert^2\)</span>.<a href="#fnref20" class="footnote-back" role="doc-backlink">↩</a></p></li>
-<li id="fn21"><p>Note that <span class="math inline">\(x_{i, \bullet} \in \mathbb{R}^d\)</span> is a row vector, namely the <span class="math inline">\(i^{th}\)</span> row of feature matrix <span class="math inline">\(X_{\bullet, \bullet}\)</span>. Therefore the inner product <span class="math inline">\(\left &lt; x_{i, \bullet}, \; P \; x_{i, \bullet} \right &gt;\)</span> is expressed as <span class="math inline">\(x_{i, \bullet} \; P \; x_{i, \bullet}^\top\)</span> in matrix multiplication notation.<a href="#fnref21" class="footnote-back" role="doc-backlink">↩</a></p></li>
-<li id="fn22"><p>Here we define “principal component” to mean <span class="math inline">\(X_{\bullet, \bullet} \; v_{\bullet, \eta}\)</span>, the linear combination of feature vectors. Other authors identify the coefficient vector <span class="math inline">\(v_{\bullet, \eta}\)</span> as the “principal component”.<a href="#fnref22" class="footnote-back" role="doc-backlink">↩</a></p></li>
+<li id="fn18"><p>As noted in this book’s preface, the wine quality data can be obtained from <code>GitHub</code> by installing the package <code>eda4mldata</code> accompanying the book. In your Console run the following lines of code: (1) remotes::install_github(“tthrall/eda4mldata”); (2) library(eda4mldata); (3) data(wine_quality). Alternatively, see the Preface to download the data directly from its source.<a href="#fnref18" class="footnote-back" role="doc-backlink">↩</a></p></li>
+<li id="fn19"><p>The <code>R</code> function <code>stats::glm()</code> performs logistic regression with the parameter setting <code>family = binomial</code>. See for example <span class="citation" data-cites="r_doc_HSAUR">Hothorn and Everitt (<a href="references.html#ref-r_doc_HSAUR" role="doc-biblioref">2025</a>)</span>.<a href="#fnref19" class="footnote-back" role="doc-backlink">↩</a></p></li>
+<li id="fn20"><p>Among the notations for the inner product (scalar product) of vectors <span class="math inline">\(x, y\)</span> belonging to the same Euclidean space are: (1) <span class="math inline">\(\left &lt; x, y \right&gt;\)</span>; and (2) <span class="math inline">\(x^\top \; y\)</span>. The latter conforms to the notation of matrix multiplication if <span class="math inline">\(x\)</span> and <span class="math inline">\(y\)</span> are column vectors, and this is the tacit assumption without other information to the contrary. Ambiguity may occur when at least one of <span class="math inline">\(x, y\)</span> is a row or a column of some matrix. For example, if <span class="math inline">\(x\)</span> is a row vector and <span class="math inline">\(y\)</span> is a column vector, then the inner product of <span class="math inline">\(x, y\)</span> should be written either as <span class="math inline">\(\left &lt; x, y \right&gt;\)</span> or else as <span class="math inline">\(x \; y\)</span> according to matrix notation.<a href="#fnref20" class="footnote-back" role="doc-backlink">↩</a></p></li>
+<li id="fn21"><p>We use the property of orthogonal projection <span class="math inline">\(P\)</span> that: <span class="math inline">\(\left &lt; x, P \; x \right &gt; = \left &lt; x, P^2 \; x \right &gt; = \left &lt; P \; x, P \; x \right &gt; = \lVert P \; x \rVert^2\)</span>.<a href="#fnref21" class="footnote-back" role="doc-backlink">↩</a></p></li>
+<li id="fn22"><p>Note that <span class="math inline">\(x_{i, \bullet} \in \mathbb{R}^d\)</span> is a row vector, namely the <span class="math inline">\(i^{th}\)</span> row of feature matrix <span class="math inline">\(X_{\bullet, \bullet}\)</span>. Therefore the inner product <span class="math inline">\(\left &lt; x_{i, \bullet}, \; P \; x_{i, \bullet} \right &gt;\)</span> is expressed as <span class="math inline">\(x_{i, \bullet} \; P \; x_{i, \bullet}^\top\)</span> in matrix multiplication notation.<a href="#fnref22" class="footnote-back" role="doc-backlink">↩</a></p></li>
+<li id="fn23"><p>Here we define “principal component” to mean <span class="math inline">\(X_{\bullet, \bullet} \; v_{\bullet, \eta}\)</span>, the linear combination of feature vectors. Other authors identify the coefficient vector <span class="math inline">\(v_{\bullet, \eta}\)</span> as the “principal component”.<a href="#fnref23" class="footnote-back" role="doc-backlink">↩</a></p></li>
 </ol>
 </section>
 

diff --git a/_book/preface.html b/_book/preface.html
@@ -380,7 +380,7 @@ pre > code.sourceCode > span > a:first-child::before { text-decoration: underlin
     <div>
     <div class="quarto-title-meta-heading">Published</div>
     <div class="quarto-title-meta-contents">
-      <p class="date">13:36 Fri 28-Nov-2025</p>
+      <p class="date">16:40 Sat 29-Nov-2025</p>
     </div>
   </div>
   
@@ -488,11 +488,10 @@ pre > code.sourceCode > span > a:first-child::before { text-decoration: underlin
 <span id="cb2-4"><a href="#cb2-4" aria-hidden="true" tabindex="-1"></a>}</span>
 <span id="cb2-5"><a href="#cb2-5" aria-hidden="true" tabindex="-1"></a></span>
 <span id="cb2-6"><a href="#cb2-6" aria-hidden="true" tabindex="-1"></a><span class="co"># Install eda4ml package</span></span>
-<span id="cb2-7"><a href="#cb2-7" aria-hidden="true" tabindex="-1"></a>remotes<span class="sc">::</span><span class="fu">install_github</span>(<span class="st">"tthrall/eda4ml"</span>)</span></code><button title="Copy to Clipboard" class="code-copy-button"><i class="bi"></i></button></pre></div>
+<span id="cb2-7"><a href="#cb2-7" aria-hidden="true" tabindex="-1"></a>remotes<span class="sc">::</span><span class="fu">install_github</span>(<span class="st">"tthrall/eda4mldata"</span>)</span></code><button title="Copy to Clipboard" class="code-copy-button"><i class="bi"></i></button></pre></div>
 <p>Once installed, access the wine quality data with:</p>
-<div class="sourceCode" id="cb3"><pre class="sourceCode r code-with-copy"><code class="sourceCode r"><span id="cb3-1"><a href="#cb3-1" aria-hidden="true" tabindex="-1"></a><span class="fu">library</span>(eda4ml)</span>
-<span id="cb3-2"><a href="#cb3-2" aria-hidden="true" tabindex="-1"></a><span class="fu">data</span>(wine_red)</span>
-<span id="cb3-3"><a href="#cb3-3" aria-hidden="true" tabindex="-1"></a><span class="fu">data</span>(wine_white)</span></code><button title="Copy to Clipboard" class="code-copy-button"><i class="bi"></i></button></pre></div>
+<div class="sourceCode" id="cb3"><pre class="sourceCode r code-with-copy"><code class="sourceCode r"><span id="cb3-1"><a href="#cb3-1" aria-hidden="true" tabindex="-1"></a><span class="fu">library</span>(eda4mldata)</span>
+<span id="cb3-2"><a href="#cb3-2" aria-hidden="true" tabindex="-1"></a><span class="fu">data</span>(wine_quality)</span></code><button title="Copy to Clipboard" class="code-copy-button"><i class="bi"></i></button></pre></div>
 </section>
 <section id="direct-data-access-alternative" class="level4">
 <h4 class="anchored" data-anchor-id="direct-data-access-alternative">Direct Data Access (Alternative)</h4>
